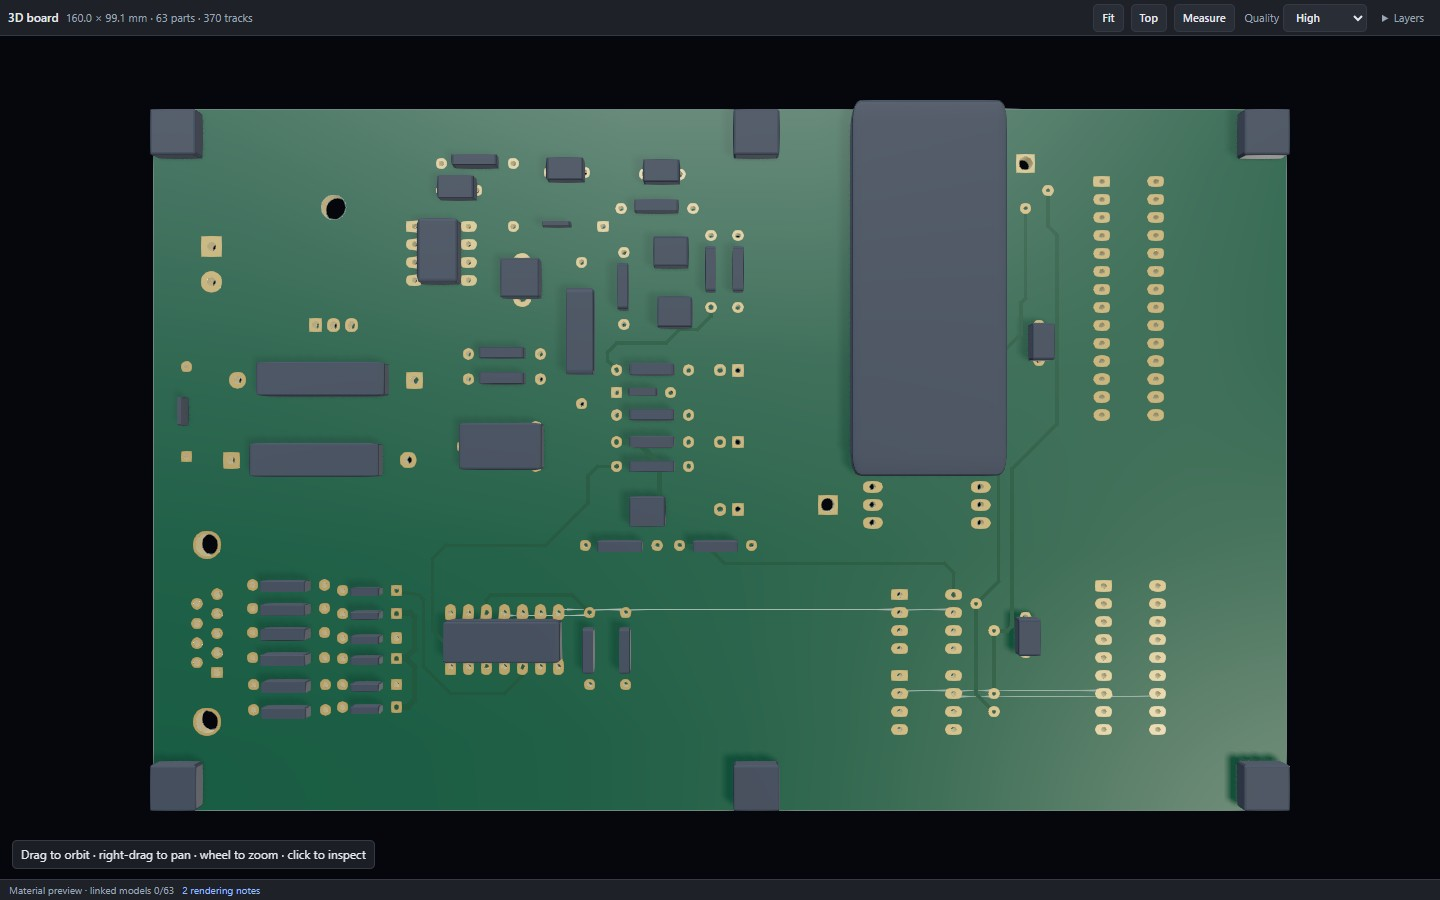
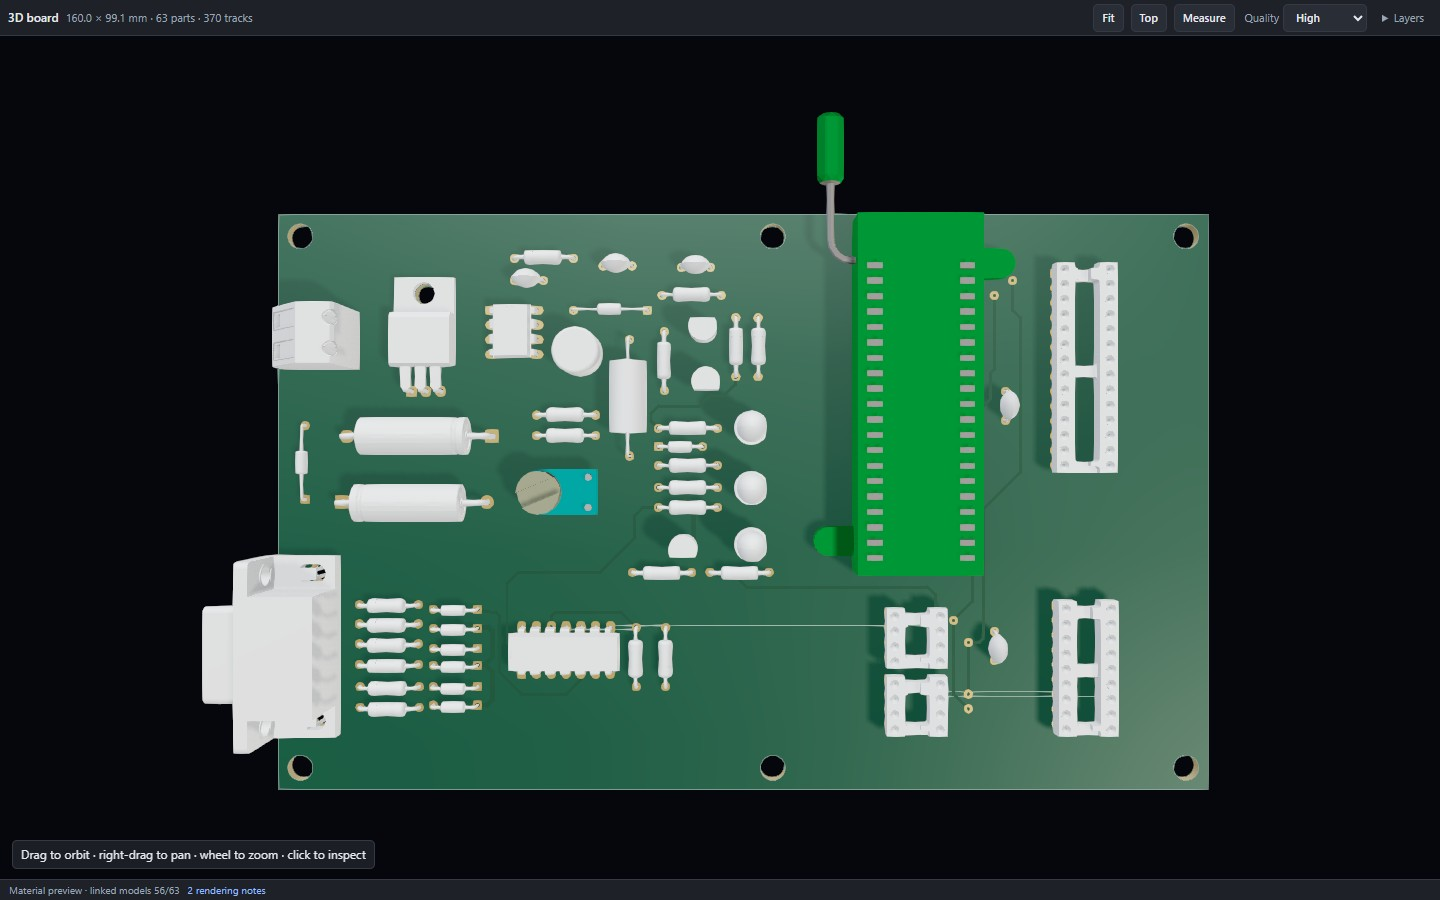
Replace GitHub 3D renders with real linked component models

diff --git a/docs/images/README.md b/docs/images/README.md
@@ -113,7 +113,7 @@ Android `phone-schematic.png` and `tablet-landscape.png`, and shared model, meas
 
 The five files in `current/` show the production 0.12.62 renderer and shared workspace code from source commit `7d006e698a8b07b7a19bbd7659a009dda4bd359c`. Captured on 27 October 2026 at 1440 × 900 CSS pixels, with browser/OS chrome outside the captured surface. No generated imagery, retouching or private project files were used.
 
-- `pcb-3d-dark-0.12.62.jpg`, `pcb-3d-light-0.12.62.jpg`, and `pcb-3d-top-0.12.62.jpg`: the shared production Three.js/WebGL renderer, mounted locally with KiCad 10's distributed public PIC Programmer PCB demo. High quality and ambient occlusion were active. The source has 63 footprints and 247 pads. **All component bodies shown are approximate footprint stand-ins** (linked mechanical models 0/63); no downloaded model library is represented. Rendering notes remain visible. These are shared-renderer browser captures, not physical Android or installed VS Code captures.
+- `pcb-3d-dark-0.12.62.jpg`, `pcb-3d-light-0.12.62.jpg`, and `pcb-3d-top-0.12.62.jpg`: the shared production Three.js/WebGL renderer, mounted locally with KiCad 10's distributed public PIC Programmer PCB demo. High quality and ambient occlusion were active. The source has 63 footprints and 247 pads. **Real linked component models are loaded for 56/63 footprints**, covering every saved model reference: 18 installed KiCad STEP library models and the demo’s `libs/3d_shapes/textool_40.wrl` (19 unique files, 3,093,878 bytes). Library environment paths resolve against the installed KiCad 10 model directory through the production asset loader; source model transforms are preserved. The seven bodies with no saved model (`P101`–`P106`, `JP1`) are hidden via the viewer’s population API; their pads and board geometry remain. No stand-in bodies are shown. STEP models retain the materials supplied by the production decoder, including neutral colours. All model-bearing footprints were confirmed loaded before capture, with no page exceptions. Rendering notes remain visible. These are shared-renderer browser captures, not physical Android or installed VS Code captures.
 - `pcb-workspace-0.12.62.png` and `schematic-workspace-0.12.62.png`: the production schematic/PCB viewer pages with the same public demo PCB, root schematic and `pic_sockets.kicad_sch`, supplied by a local read-only mock repository transport. The fixture revision identifier is synthetic; it is not an upstream KiCad commit. These demonstrate the current shared UI without live GitHub/GitLab authentication or posting.
 
[1 lines of base64/hex data omitted]

diff --git a/README.md b/README.md
@@ -98,7 +98,7 @@ Click any image to open it at full size. Captures show several development versi
 
 [![PIC Programmer PCB in the shared Three.js renderer, High quality and dark theme](docs/images/current/pcb-3d-dark-0.12.62.jpg)](docs/images/current/pcb-3d-dark-0.12.62.jpg)
 
-Production WebGL rendering of KiCad's public PIC Programmer demo, captured on 27 October 2026. Component bodies in these captures are **approximate footprint stand-ins**; linked mechanical models were not loaded. High quality is enabled. These are browser-rendered application pixels, with no generated imagery or operating-system status bar.
+Production WebGL rendering of KiCad's public PIC Programmer demo, captured on 27 October 2026. **Real linked STEP/VRML component models** are loaded for all 56 footprints with saved model references (19 distinct model files). The seven model-less bodies are hidden, so no stand-ins appear. High quality and ambient occlusion are enabled. These are browser-rendered application pixels, with no generated imagery or operating-system status bar.
 
 <details>
 <summary><strong>Light theme, top view and compact drawing workspaces</strong></summary>
